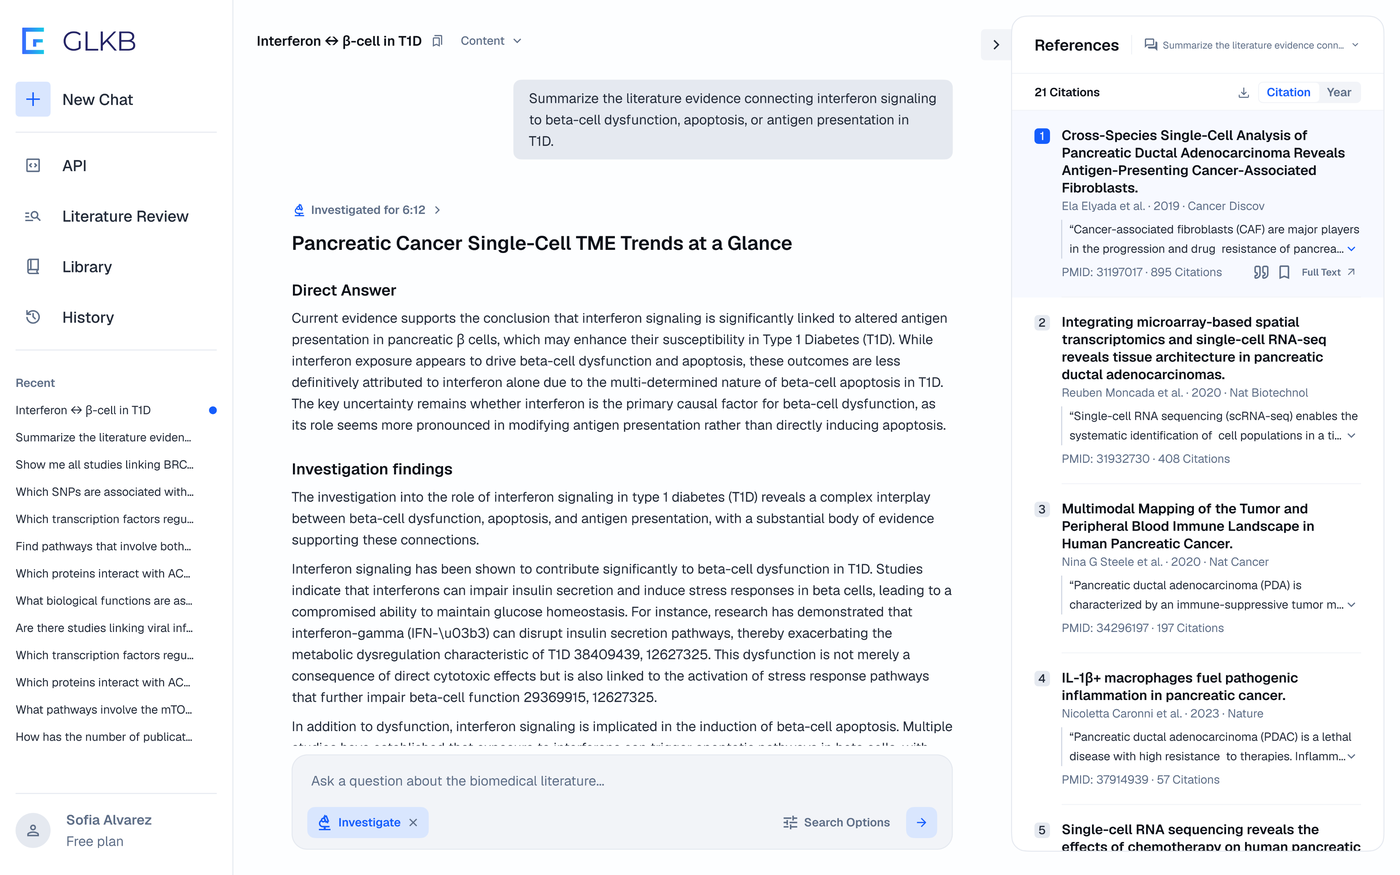
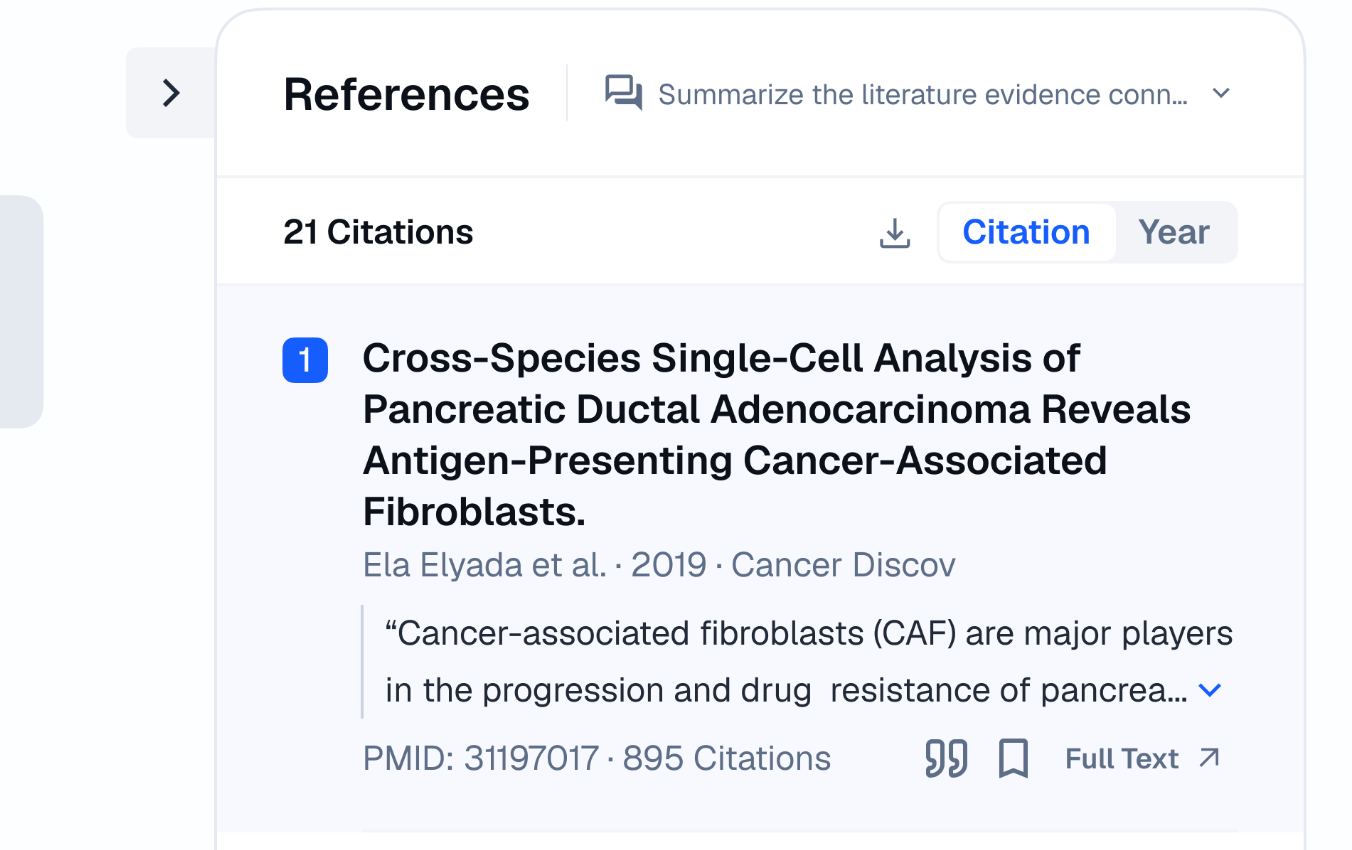
Fix four things a side-by-side with the frame caught
The measurements said the About page matched. Rendering it at 1440 and
putting it next to the frame band by band said otherwise:

- The browser mockup showed the middle of the app screenshot, because
  .about-hero-media aligned to flex-end and clipped the frame's top. The
  design clips its bottom: the frame hangs 56px below the band's top and
  runs past it. The element measured 583px tall either way, which is why
  the numbers were happy.
- Its chrome was an approximation. It is Figma 1088:28340's own offsets
  now — 79px of chrome, lights at 13/16, the tab at 70/8 sized 256x34,
  favicon, close, new tab, back/forward/reload, the lock, and the address
  pill from 108 to right-44 — with the frame's exported SVGs rather than
  redrawn shapes. The tab favicon is our own icon, since the design's is
  named "[Replace Me]".
- The trusted-by logos came out small and letterboxed. I had paired the
  repo's older logo files with the design's box widths, but those files
  are cropped differently, so at a shared height the marks shrink inside
  their boxes. The frame's exports are in now, at its widths.
- "Evidence, not estimates" showed the whole app in miniature. The export
  is the full screenshot and the design shows one region of it — the
  references panel — so it is cropped to that, at the card's 1.59 aspect.

shoot-about.mjs is how the comparison was made. It has to scroll
AppLayout's inner wrapper: fullPage on its own captures one 900px
[…]

diff --git a/src/components/AboutPage/index.jsx b/src/components/AboutPage/index.jsx
@@ -23,30 +23,39 @@ import AddIcon from '@mui/icons-material/Add';
 import ChevronRightIcon from '@mui/icons-material/ChevronRight';
 import RemoveIcon from '@mui/icons-material/Remove';
 
-import heroLogo27 from '../../img/about/frame1/image 27.png';
-import heroLogo29 from '../../img/about/frame1/image 29.png';
-import heroLogo30 from '../../img/about/frame1/image 30.png';
-import heroLogo31 from '../../img/about/frame1/image 31.png';
-import heroLogo32 from '../../img/about/frame1/image 32.png';
-import heroLogo1 from '../../img/about/frame1/logo 1.png';
 import teamLogo from '../../img/about/frame11/logo 1.png';
+import logoHarvard from '../../img/about/v2/trusted/harvard.png';
+import logoMichigan from '../../img/about/v2/trusted/michigan-medicine.png';
+import logoMit from '../../img/about/v2/trusted/mit.png';
+import logoUcSanDiego from '../../img/about/v2/trusted/uc-san-diego.png';
+import logoVanderbilt from '../../img/about/v2/trusted/vanderbilt.png';
+import logoWeillCornell from '../../img/about/v2/trusted/weill-cornell.png';
 import evidenceImage from '../../img/about/v2/evidence-references.png';
 import heroAppImage from '../../img/about/v2/hero-app.png';
 import knowledgeGraphImage from '../../img/about/v2/knowledge-graph.png';
+import browserMenu from '../../img/about/v2/browser/menu.svg';
+import browserNewTab from '../../img/about/v2/browser/new-tab.svg';
+import browserSecure from '../../img/about/v2/browser/secure.svg';
+import browserTabShape from '../../img/about/v2/browser/tab.svg';
+import browserTabClose from '../../img/about/v2/browser/tab-close.svg';
+import browserActions from '../../img/about/v2/browser/toolbar-actions.svg';
+import browserFavicon from '../../img/GLKB_logo_icon.png';
 import { useAuth } from '../Auth/AuthContext';
 import { posts } from '../Blog/posts';
 import { PostCard, SiteFooter, SiteNav } from '../SiteChrome';
 import faqData from './faqData.json';
 import { USE_CASES } from './useCases';
 
-/* Figma 604:7257 — the six logos, in the design's order. */
+/* Figma 604:7257 — the six, in the design's order and at its widths. These are
+   the frame's own exports: the repo's older logo files are cropped differently,
+   so at a shared height they come out visibly smaller. */
 const TRUSTED_LOGOS = [
-    { src: heroLogo27, name: 'Weill Cornell Medicine', width: 177 },
-    { src: heroLogo1, name: 'Michigan Medicine', width: 63 },
-    { src: heroLogo32, name: 'Harvard University', width: 158 },
-    { src: heroLogo29, name: 'Massachusetts Institute of Technology', width: 176 },
-    { src: heroLogo30, name: 'Vanderbilt University', width: 158 },
-    { src: heroLogo31, name: 'UC San Diego', width: 137 },
+    { src: logoWeillCornell, name: 'Weill Cornell Medicine', width: 177 },
+    { src: logoMichigan, name: 'Michigan Medicine', width: 63 },
+    { src: logoHarvard, name: 'Harvard University', width: 158 },
+    { src: logoMit, name: 'Massachusetts Institute of Technology', width: 161 },
+    { src: logoVanderbilt, name: 'Vanderbilt University', width: 184 },
+    { src: logoUcSanDiego, name: 'UC San Diego', width: 205 },
 ];
 
 /* Figma 604:7362 */
@@ -152,16 +161,28 @@ const AboutPage = () => {
                         </div>
                     </div>
                     <div className="about-hero-media">
-                        {/* Figma 604:7250 — a browser frame that runs off the right edge. */}
+                        {/* Figma 1088:28340 — the Chrome frame, 79px of chrome over the
+                            app, running off the right edge of the band. */}
                         <div className="about-browser">
-                            <div className="about-browser-bar">
-                                <span className="about-browser-light" />
-                                <span className="about-browser-light" />
-                                <span className="about-browser-light" />
-                                <span className="about-browser-tab">GLKB API Docs</span>
+                            <div className="about-browser-tabs">
+                                <span className="about-browser-lights" aria-hidden="true">
+                                    <i /><i /><i />
+                                </span>
+                                <span className="about-browser-tab">
+                                    <img className="about-browser-tab-shape" src={browserTabShape} alt="" />
+                                    <img className="about-browser-favicon" src={browserFavicon} alt="" />
+                                    <span className="about-browser-tab-title">GLKB API Docs</span>
+                                    <img className="about-browser-tab-close" src={browserTabClose} alt="" />
+                                </span>
+                                <img className="about-browser-newtab" src={browserNewTab} alt="" />
                             </div>
-                            <div className="about-browser-address">
-                                <span className="about-browser-url">https://glkb.org/</span>
+                            <div className="about-browser-toolbar">
+                                <img className="about-browser-actions" src={browserActions} alt="" />
+                                <span className="about-browser-address">
+                                    <img className="about-browser-secure" src={browserSecure} alt="" />
+                                    <span className="about-browser-url">https://glkb.org/</span>
+                                </span>
+                                <img className="about-browser-menu" src={browserMenu} alt="" />
                             </div>
                             <img className="about-browser-body" src={heroAppImage} alt="A GLKB answer with its citations" />
                         </div>

diff --git a/src/components/AboutPage/scoped.css b/src/components/AboutPage/scoped.css
@@ -94,12 +94,17 @@
     min-width: 0;
     align-self: stretch;
     display: flex;
-    align-items: flex-end;
+    /* The frame hangs from 56px below the top of the band and runs past its
+       bottom edge, so its chrome is on screen and its footer is not. Aligning
+       to the end instead pushes the chrome above the fold. */
+    align-items: flex-start;
     padding-top: 56px;
 }
 
-/* Figma 604:7250 — the Chrome frame. Only the top of it is on screen. */
+/* Figma 1088:28340 — the Chrome frame. 79px of chrome over the app screenshot,
+   everything inside it placed at the offsets the component specifies. */
 .about-browser {
+    position: relative;
     width: 100%;
     min-width: 806px;
     height: 583px;
@@ -110,59 +115,137 @@
         0 20px 30px 0 rgba(0, 0, 0, 0.1),
         0 10px 50px 0 rgba(0, 0, 0, 0.05);
     overflow: hidden;
+    font-family: -apple-system, 'SF Pro Text', 'Segoe UI', sans-serif;
 }
 
-.about-browser-bar {
+.about-browser-tabs {
+    position: absolute;
+    inset: 0 0 auto 0;
+    height: 37px;
+    background-color: #dfe1e5;
+}
+
+.about-browser-lights {
+    position: absolute;
+    left: 13px;
+    top: 16px;
     display: flex;
-    align-items: center;
     gap: 8px;
-    height: 40px;
-    padding: 0 12px;
-    background-color: #dee1e6;
 }
 
-.about-browser-light {
+.about-browser-lights i {
     width: 12px;
     height: 12px;
     border-radius: 50%;
-    background-color: #b9bcc0;
 }
 
-.about-browser-light:nth-child(1) { background-color: #ec6a5f; }
-.about-browser-light:nth-child(2) { background-color: #f4bf50; }
-.about-browser-light:nth-child(3) { background-color: #61c454; }
+.about-browser-lights i:nth-child(1) { background-color: #ed6a5e; }
+.about-browser-lights i:nth-child(2) { background-color: #f4bf4f; }
+.about-browser-lights i:nth-child(3) { background-color: #61c454; }
 
 .about-browser-tab {
-    margin-left: 12px;
-    padding: 6px 16px;
-    border-radius: 8px 8px 0 0;
-    background-color: var(--color-background-surface);
+    position: absolute;
+    left: 70px;
+    top: 8px;
+    width: 256px;
+    height: 34px;
+}
+
+.about-browser-tab-shape {
+    position: absolute;
+    inset: 0;
+    width: 100%;
+    height: 100%;
+}
+
+.about-browser-favicon {
+    position: absolute;
+    left: 19px;
+    top: 9px;
+    width: 18px;
+    height: 16px;
+    object-fit: contain;
+}
+
+.about-browser-tab-title {
+    position: absolute;
+    left: 44px;
+    top: 0;
+    height: 34px;
+    display: flex;
+    align-items: center;
     font-size: 12px;
-    line-height: 20px;
-    color: var(--color-text-secondary);
+    color: #3c4043;
+}
+
+.about-browser-tab-close {
+    position: absolute;
+    left: 228px;
+    top: 13px;
+    width: 7.93px;
+    height: 7.93px;
+}
+
+.about-browser-newtab {
+    position: absolute;
+    left: 334px;
+    top: 19px;
+    width: 12px;
+    height: 12px;
+}
+
+.about-browser-toolbar {
+    position: absolute;
+    inset: 37px 0 auto 0;
+    height: 42px;
+    background-color: var(--color-background-surface);
+    border-bottom: 1px solid #b6b6b6;
+}
+
+.about-browser-actions {
+    position: absolute;
+    left: 15.5px;
+    top: 16.5px;
+    width: 77.5px;
+    height: 13px;
 }
 
 .about-browser-address {
+    position: absolute;
+    left: 108px;
+    right: 44px;
+    top: 9px;
+    height: 28px;
     display: flex;
     align-items: center;
-    height: 40px;
-    padding: 0 16px;
-    background-color: var(--color-background-surface);
+    gap: 6px;
+    padding: 0 14px;
+    border-radius: 14px;
+    background-color: #f1f3f4;
+}
+
+.about-browser-secure {
+    width: 8px;
+    height: 10.5px;
+    flex: 0 0 auto;
 }
 
 .about-browser-url {
-    display: flex;
-    align-items: center;
-    height: 28px;
-    padding: 0 16px;
-    border-radius: 14px;
-    background-color: var(--color-grey-50);
     font-size: 12px;
-    line-height: 20px;
-    color: var(--color-text-tertiary);
+    color: #3c4043;
+}
+
+.about-browser-menu {
+    position: absolute;
+    right: 20.5px;
+    top: 16.6px;
+    width: 3px;
+    height: 13px;
 }
 
 .about-browser-body {
+    position: absolute;
+    inset: 79px 0 0 0;
     display: block;
     width: 100%;
     height: auto;
@@ -200,7 +283,6 @@
     height: 40px;
     object-fit: contain;
     opacity: 0.9;
-    filter: grayscale(1);
 }
 
 /* ---------------------------------------------------------------- from the lab
